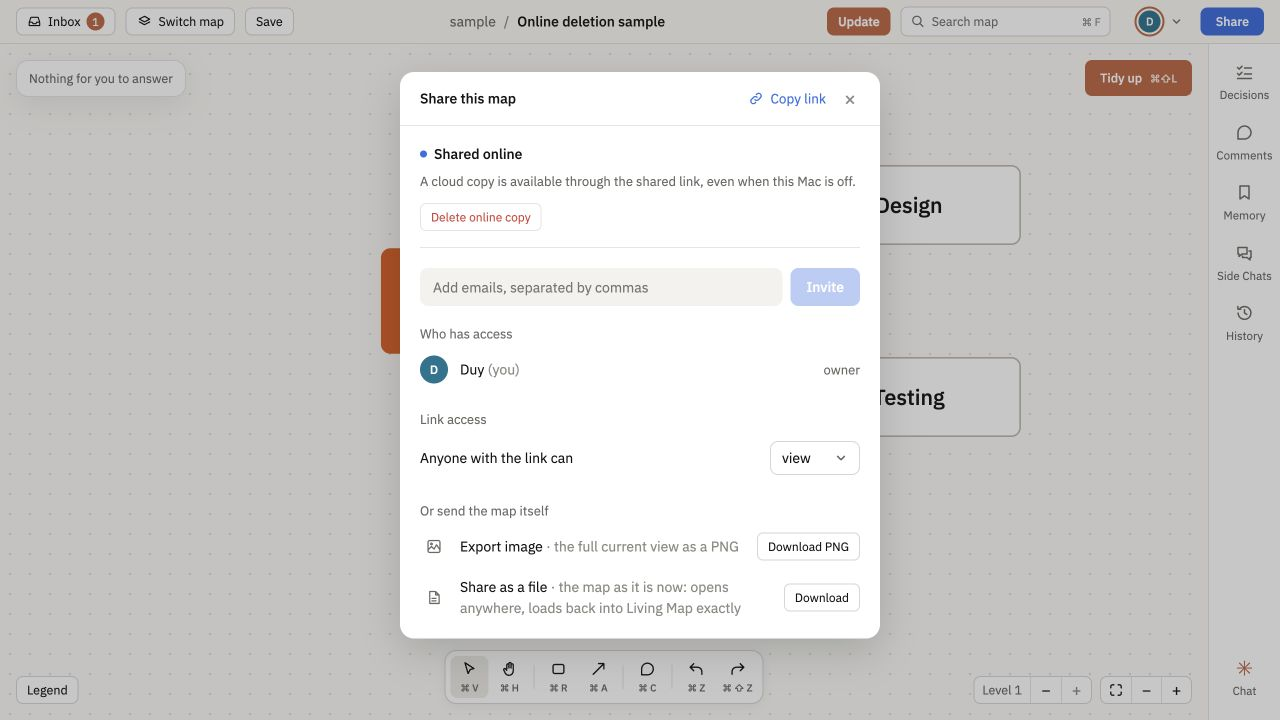
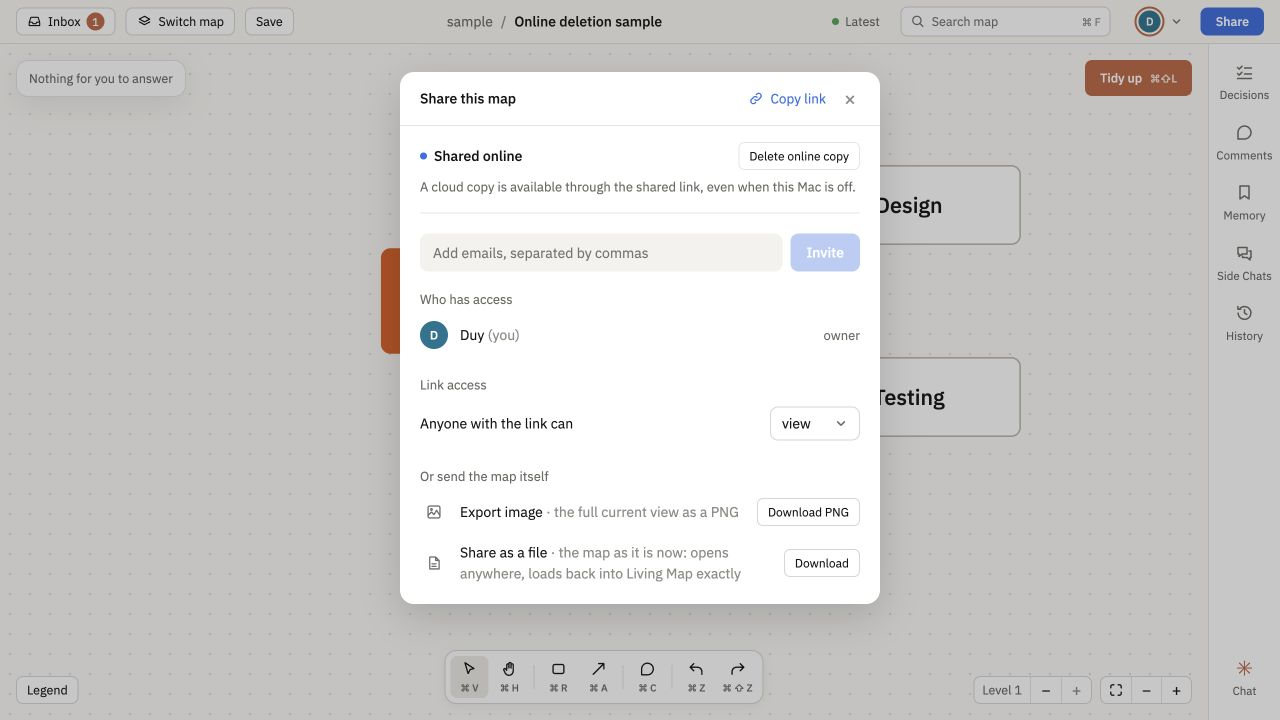
Refresh cloud sharing controls in the Shipping log

diff --git a/CHANGELOG.md b/CHANGELOG.md
@@ -5,6 +5,30 @@ Recent changes you can use in the current release of Living Map, newest first. D
 ## November 7, 2026
 
 <dl>
+<dt><strong>✨ [New feature] Know when your map is shared online</strong></dt>
+<dd>
+
+Share shows **Local only** or **Shared online**, with a compact confirmation before uploading a cloud copy and copying its link. [#176](https://github.com/HiAnur/anur-living-map/pull/176), [#188](https://github.com/HiAnur/anur-living-map/pull/188) <!-- merged-at: 2026-11-08T02:25:30Z -->
+
+<img src="docs/shipping/2026-11-07/share-confirmation.png" alt="Compact upload confirmation explains cloud access and private chats, with Keep local and Upload and copy link buttons." width="540">
+
+</dd>
+</dl>
+
+<dl>
+<dt><strong>✨ [New feature] Delete the online copy</strong></dt>
+<dd>
+
+Use the neutral **Delete online copy** button to the right of **Shared online**, then confirm to remove the hosted map and disable its shared link while keeping your local map; sharing again creates a new copy and link. [#180](https://github.com/HiAnur/anur-living-map/pull/180), [#185](https://github.com/HiAnur/anur-living-map/pull/185) <!-- merged-at: 2026-11-08T02:22:44Z -->
+
+<img src="docs/shipping/2026-11-07/delete-online-copy.png" alt="Share shows a neutral Delete online copy button to the right of Shared online." width="640">
+
+<img src="docs/shipping/2026-11-07/delete-online-confirmation.png" alt="Compact confirmation explains that the local map stays and the shared link stops working, with Cancel and Delete online copy." width="540">
+
+</dd>
+</dl>
+
+<dl>
 <dt><strong>✨ [New feature] Action boxes in Side Chat</strong></dt>
 <dd>
 
@@ -22,28 +46,6 @@ Choose **Action box** on a topic, then **Execute** beneath its amber box. Replie
 On the **home page**, choose a map in **All brain** to browse its boxes, decisions and memories with expandable details. [#178](https://github.com/HiAnur/anur-living-map/pull/178), [#183](https://github.com/HiAnur/anur-living-map/pull/183) <!-- merged-at: 2026-11-08T02:16:16Z -->
 
 <img src="docs/shipping/2026-11-07/all-brain-home.png" alt="The Living Map home page shows the map list on the left and All brain on the right, with a chosen map's boxes, decisions and memories." width="760">
-
-</dd>
-</dl>
-
-<dl>
-<dt><strong>✨ [New feature] Delete the online copy</strong></dt>
-<dd>
-
-In **Share → Delete online copy**, confirm to remove the hosted map and disable its shared link while keeping your local map; sharing again creates a new copy and link. [#180](https://github.com/HiAnur/anur-living-map/pull/180) <!-- merged-at: 2026-11-08T02:11:24Z -->
-
-<img src="docs/shipping/2026-11-07/delete-online-copy.png" alt="Share shows a Delete online copy button beneath the Shared online status." width="640">
-
-</dd>
-</dl>
-
-<dl>
-<dt><strong>✨ [New feature] Know when your map is shared online</strong></dt>
-<dd>
-
-Share shows **Local only** or **Shared online** and asks before uploading a map to create its first cloud link. [#176](https://github.com/HiAnur/anur-living-map/pull/176) <!-- merged-at: 2026-11-08T01:52:59Z -->
-
-<img src="docs/shipping/2026-11-07/share-confirmation.png" alt="Share dialog shows Local only and asks whether to host the map online, with Keep local and Upload and copy link buttons." width="580">
 
 </dd>
 </dl>
